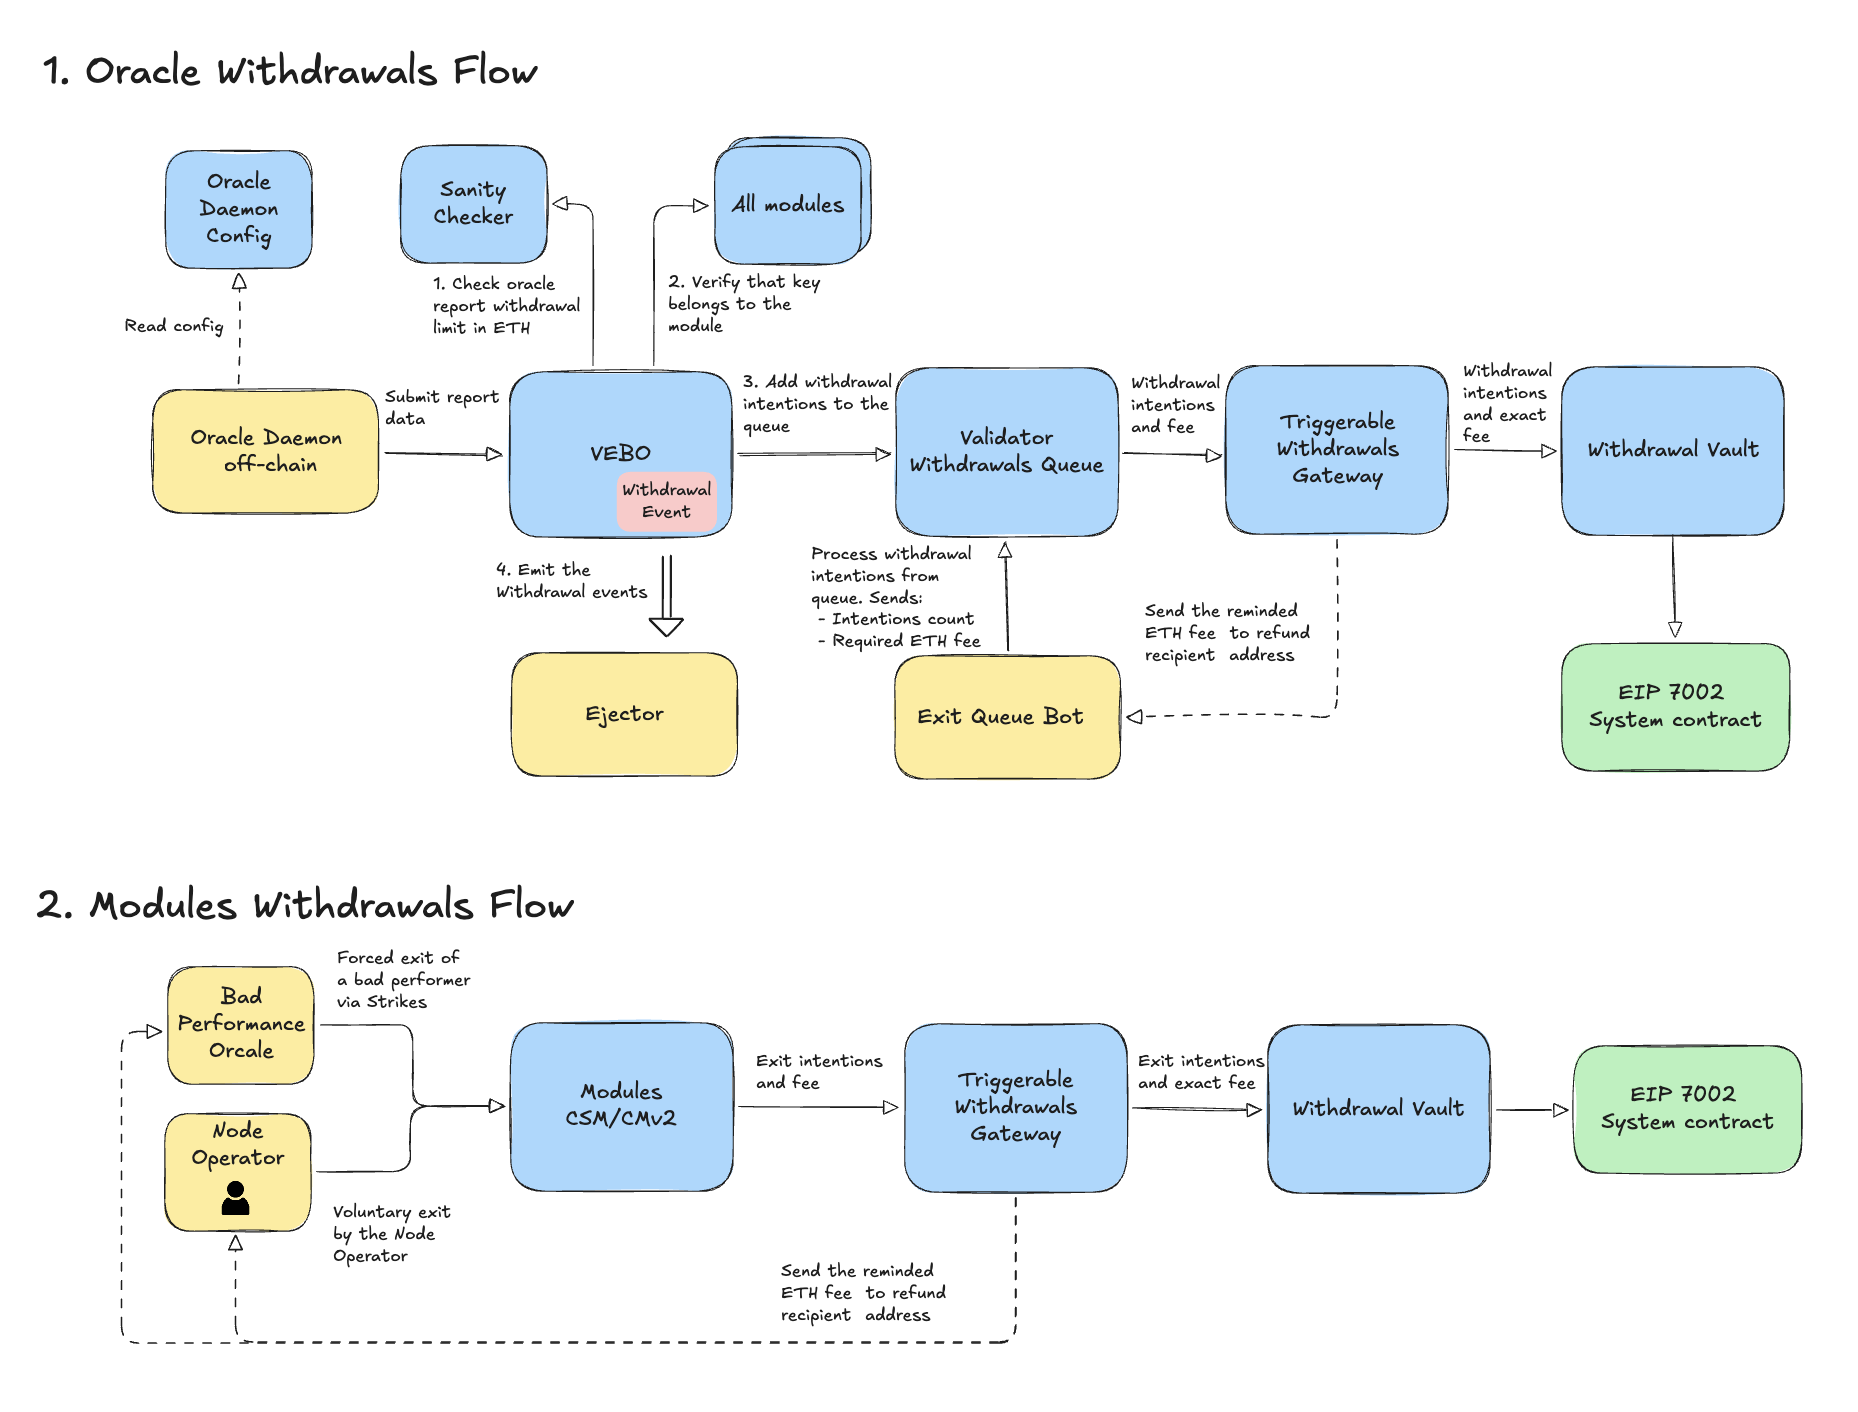
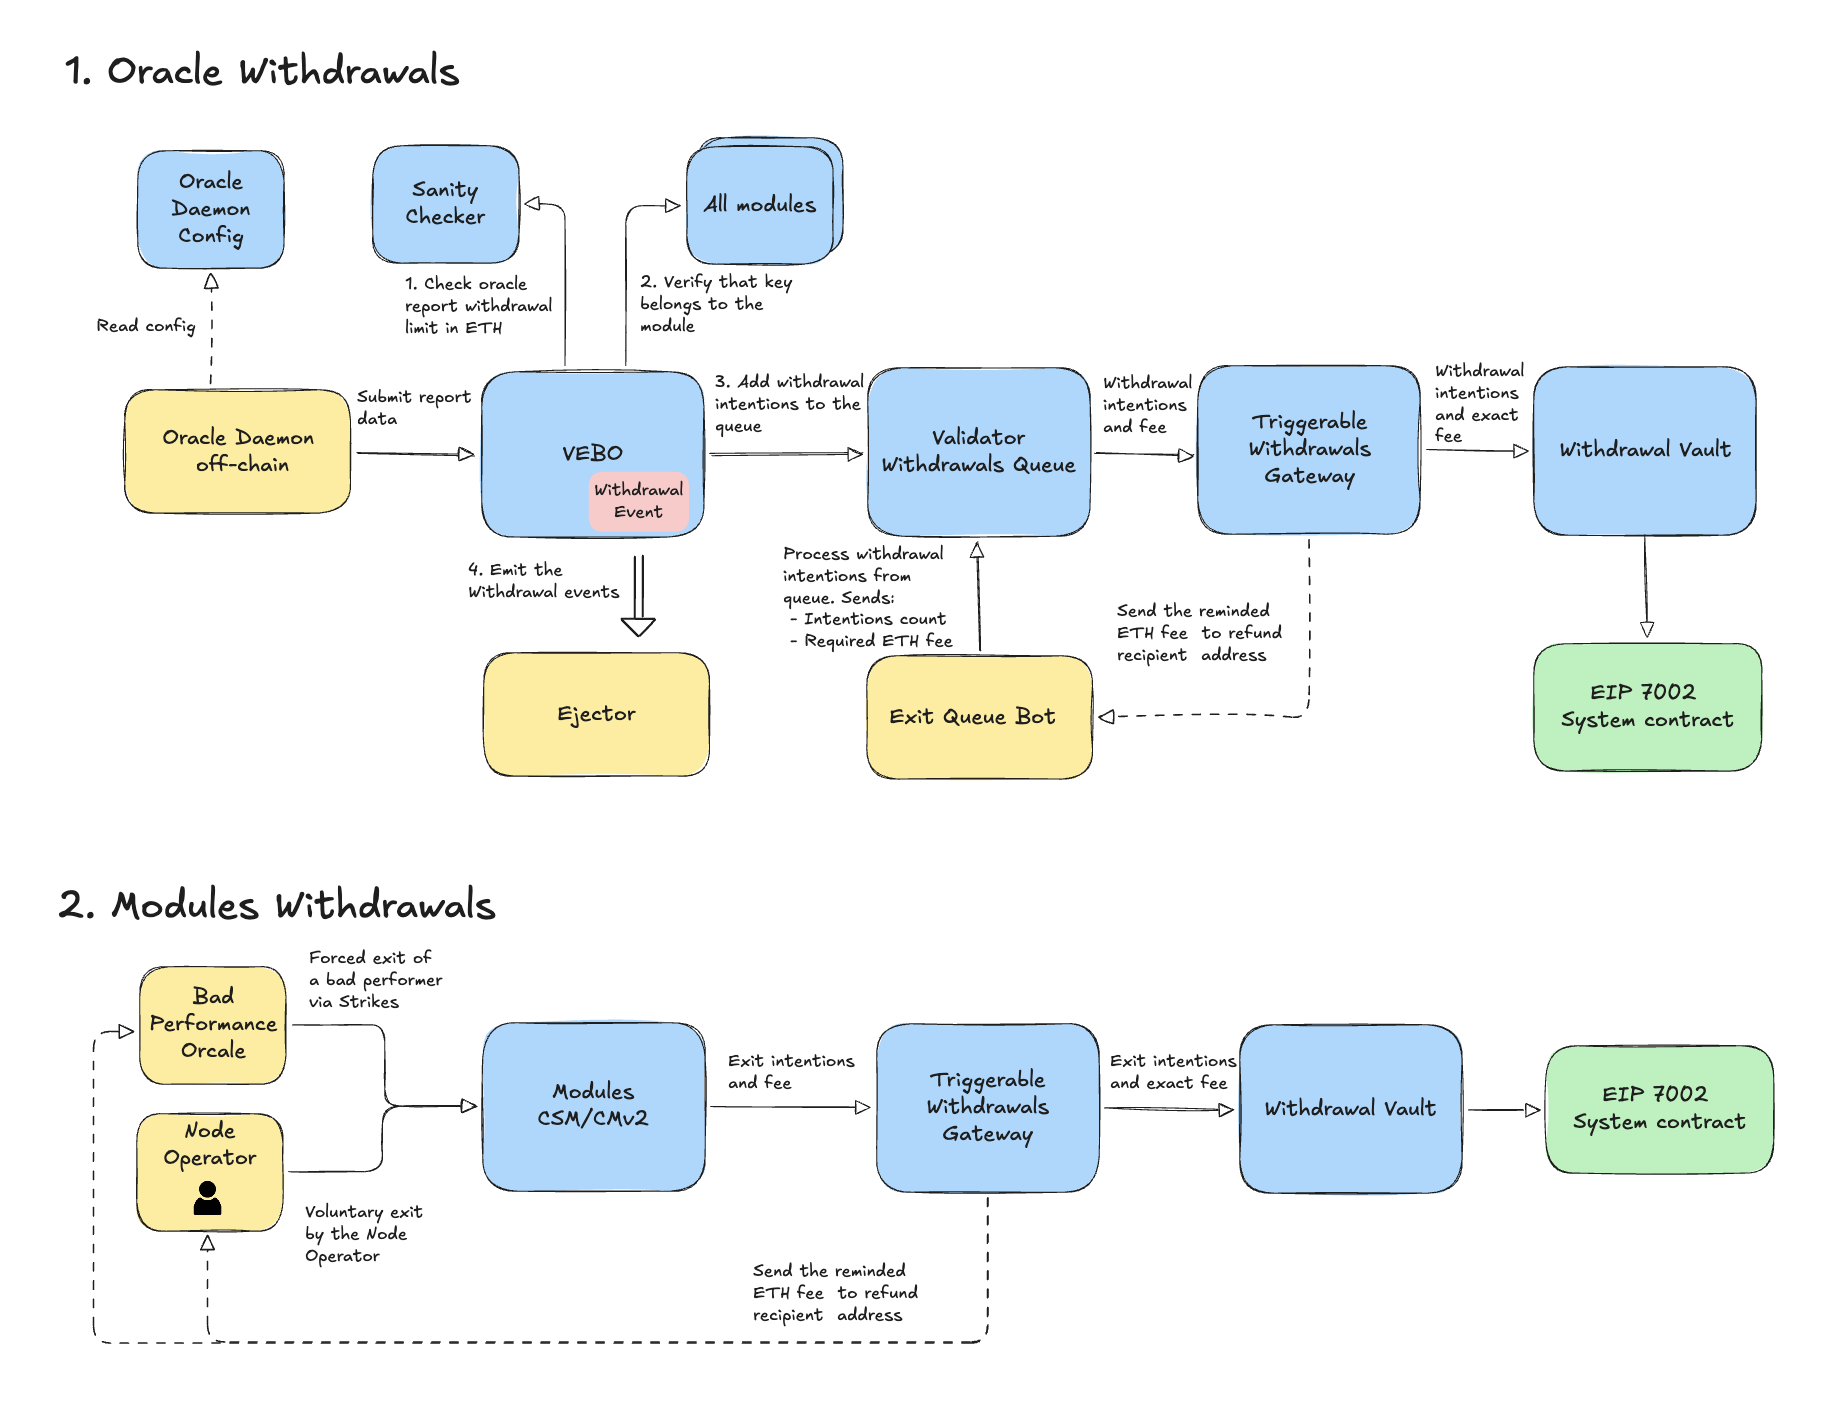
lip-38: minor text adjustments

diff --git a/LIPS/lip-38.md b/LIPS/lip-38.md
@@ -42,7 +42,8 @@ EIP-7002 lets the protocol trigger withdrawals from the execution layer using va
 
 - Allows **precise stake exit** from `0x02` validators in CMv2 using partial withdrawals, leaving the validator active.
 - **Eliminates unproductive stake time** — ETH keeps earning rewards right up until a withdrawal is processed, with no idle time behind a queued full exit waiting for the sweep to reach the exited validator.
-- Enables **full exits** via EIP-7002 without unfolding a VEBO report.
+- No need for operators to run dedicated ejector software with exit messages.
+- Simple **full exits** via EIP-7002 without unfolding a VEBO report.
 
 ### Why active rebalancing
 
@@ -62,7 +63,7 @@ The diagram above shows the two paths by which withdrawal requests reach the EIP
     - Phase 1 — cover regular **withdrawal-queue demand**;
     - Phase 2 — issue **forced validator exits**;
     - Phase 3 — add **active rebalancing** within CMv2. Phase 3 is optional and can be switched off (leaving only Phases 1–2).
-2. **The Oracle submits the report to VEBO-7002.** On submission, VEBO:
+2. **The off-chain Oracle submits the report to VEBO contract.** On submission, VEBO:
     - checks the report's total requested withdrawal balance in ETH against the sanity checker limit;
     - verifies against the staking module that each reported key belongs to the stated module and node operator, and that every PWR targets a `0x02` validator;
     - appends the intentions, in report order, to the single FIFO queue in the `ValidatorWithdrawalsQueue` contract;
@@ -206,8 +207,8 @@ On-chain, the protocol takes the Oracle's ordered withdrawal request intentions 
 #### Flow 1 — Report submission
 
 ```
-Oracle daemon  ->  ValidatorsExitBusOracle  ->  ValidatorWithdrawalsQueue (FIFO)
-report submission     report limits                  enqueue requests 
+Off-chain Oracle Daemon  ->  ValidatorsExitBusOracle  ->  ValidatorWithdrawalsQueue 
+   report submission             report validation             enqueue requests 
 ```
 
 The Oracle calls `submitReportData` with the existing `ReportData` structure: a `dataFormat` selector and a `data` blob of fixed-width records packed together. It introduces a **new `dataFormat` version** whose record carries the withdrawal **amount**. The current record (`DATA_FORMAT_LIST_WITH_KEY_INDEX = 2`, introduced in [LIP-35](lip-35.md)) is 72 bytes; the new record appends an 8-byte `amount`:
@@ -220,11 +221,11 @@ The Oracle calls `submitReportData` with the existing `ReportData` structure: a 
 
 `amount` (uint64, gwei) — **new**; `0` = full withdrawal (FWR), `> 0` = partial withdrawal (PWR).
 
-On submission VEBO-7002 decodes each record into a `WithdrawalIntent` struct — a withdrawal request intention, not yet a real withdrawal request on the CL — and appends it to the `ValidatorWithdrawalsQueue` via the role-gated `addWithdrawalIntents` call.
+On submission VEBO decodes each record into a `WithdrawalIntent` struct — a withdrawal request intention, not yet a real withdrawal request on the CL — and appends it to the `ValidatorWithdrawalsQueue` via the role-gated `addWithdrawalIntents` call.
 
 When partial withdrawals are disabled, the report is still in the new format but every record MUST carry `amount == 0` (FWR-only); if any record carries a non-zero amount, the protocol reverts the entire `submitReportData` call.
 
-#### Flow 2 — Process withdrawal requests
+#### Flow 2 — Process withdrawal intentions
 
 ```
 Validator Withdrawals Queue Bot  ->  ValidatorWithdrawalsQueue  ->  TriggerableWithdrawalsGateway (TWG)  ->  WithdrawalVault  ->  EIP-7002 predeploy
@@ -236,7 +237,7 @@ Anyone calls the permissionless `processWithdrawalIntents(count, refundRecipient
 **Cost model.** The `processWithdrawalIntents` caller pays EIP-7002 fees for all VEBO-path requests. The forced-exit fee refund mechanism from [LIP-30](lip-30.md) is removed.
 
 ```solidity
-interface IValidatorsExitBusOracle7002 {
+interface IValidatorsExitBusOracle {
     /// Flow 1: Oracle submits the ordered, packed report; each record is decoded into a
     /// WithdrawalIntent and appended to the ValidatorWithdrawalsQueue FIFO.
     function submitReportData(ReportData calldata report, uint256 contractVersion) external;
@@ -259,7 +260,7 @@ interface IValidatorsExitBusOracle7002 {
     );
 }
 
-interface IValidatorWithdrawalsQueue7002 {
+interface IValidatorWithdrawalsQueue {
     /// A single queued withdrawal request intention — not yet an EIP-7002 request.
     /// amount == 0  -> full withdrawal (FWR) once executed; weighed against the TWG's
     ///                 extracted-balance rate limit at the validator's max effective
@@ -292,23 +293,8 @@ interface IValidatorWithdrawalsQueue7002 {
 }
 
 ```
-
-#### Scope — contracts to change
-
-| Contract                                | Change                                                                                                                                                                                                                                                                                                                                                                   |
-|-----------------------------------------|--------------------------------------------------------------------------------------------------------------------------------------------------------------------------------------------------------------------------------------------------------------------------------------------------------------------------------------------------------------------------|
-| `ValidatorsExitBusOracle` (→ VEBO-7002) | New report `dataFormat` with `amount`; decodes report records and appends them to the `ValidatorWithdrawalsQueue`; `enablePartialWithdrawals` / `disablePartialWithdrawals` switch.                                                                                                                                                                                                 |
-| `ValidatorWithdrawalsQueue`             | **New contract** — stores the single FIFO queue of withdrawal request intentions; role-gated `addWithdrawalIntents` (called by VEBO-7002); permissionless `processWithdrawalIntents` execution handle; queue-inspection views.                                                                                                                                        |
-| `TriggerableWithdrawalsGateway` (TWG)   | Add `triggerWithdrawals` (partial and full, used by VEBO-7002); **remove `triggerFullWithdrawals`** — existing consumers (CSM `Ejector`) migrate to `triggerWithdrawals`; drop `_notifyStakingModules`; switch the rate limiter from **validator-based** (one quota unit per request, per [LIP-30](lip-30.md)) to **balance-based** (extracted gwei per frame). |
-| `StakingRouter`                         | Remove `onValidatorExitTriggered` (no longer called by the TWG) and `reportValidatorExitDelay` (late-exit-penalty accounting); revoke the two orphaned role grants.                                                                                                                                                                                                      |
-| Staking Modules (NOR, SDVT, CSM, CMv2)        | Remove the module-side late-exit logic and penalty accounting: the `onValidatorExitTriggered` implementations and exit-delay-penalty bookkeeping fed by `reportValidatorExitDelay`; see [Staking Modules](#staking-modules-nor-sdvt-csm-cmv2).                                                                                                                                |
-| `ValidatorExitDelayVerifier`            | **Removed entirely** — the exit-delay proof contract is obsolete once late-exit penalties are gone.                                                                                                                                                                                                                                                                      |
-| `WithdrawalVault`                       | Already supports partial withdrawals — implementation upgrade behind the existing proxy, with the new TWG as authorized caller (immutable constructor parameter). The proxy address is the protocol's withdrawal-credentials target and never changes.                                                                                                                   |
-| `LidoLocator`                           | Register the new TWG and `ValidatorWithdrawalsQueue` addresses, and remove the `ValidatorExitDelayVerifier` entry.                                                                                                                                                                                                                                                                                         |
-| `OracleDaemonConfig`                    | Add the iterator params (`EXIT_ITERATION_CHUNK`, `MIN_PARTIAL_WITHDRAWAL`) and the five `ACTIVE_REBALANCING_*` keys; see [`OracleDaemonConfig`](#oracledaemonconfig).                                                                                                                                                                                                    |
-| EasyTrack factories                     | **Removed**: the VEBO-bypass exit-request factories are removed and their `EVMScriptExecutor` roles on the VEBO revoked. **Added**: a new factory lets CMC update the `ACTIVE_REBALANCING_*` keys on `OracleDaemonConfig`; see [EasyTrack factories](#easytrack-factories).                                                                                              |
-
-#### `ValidatorsExitBusOracle` → VEBO-7002
+                                                                |
+#### ValidatorsExitBusOracle
 
 The report `dataFormat` with `amount`, the `submitReportData` entry point, and the `enablePartialWithdrawals` / `disablePartialWithdrawals` switch are described in Flows 1–2 above.
 
